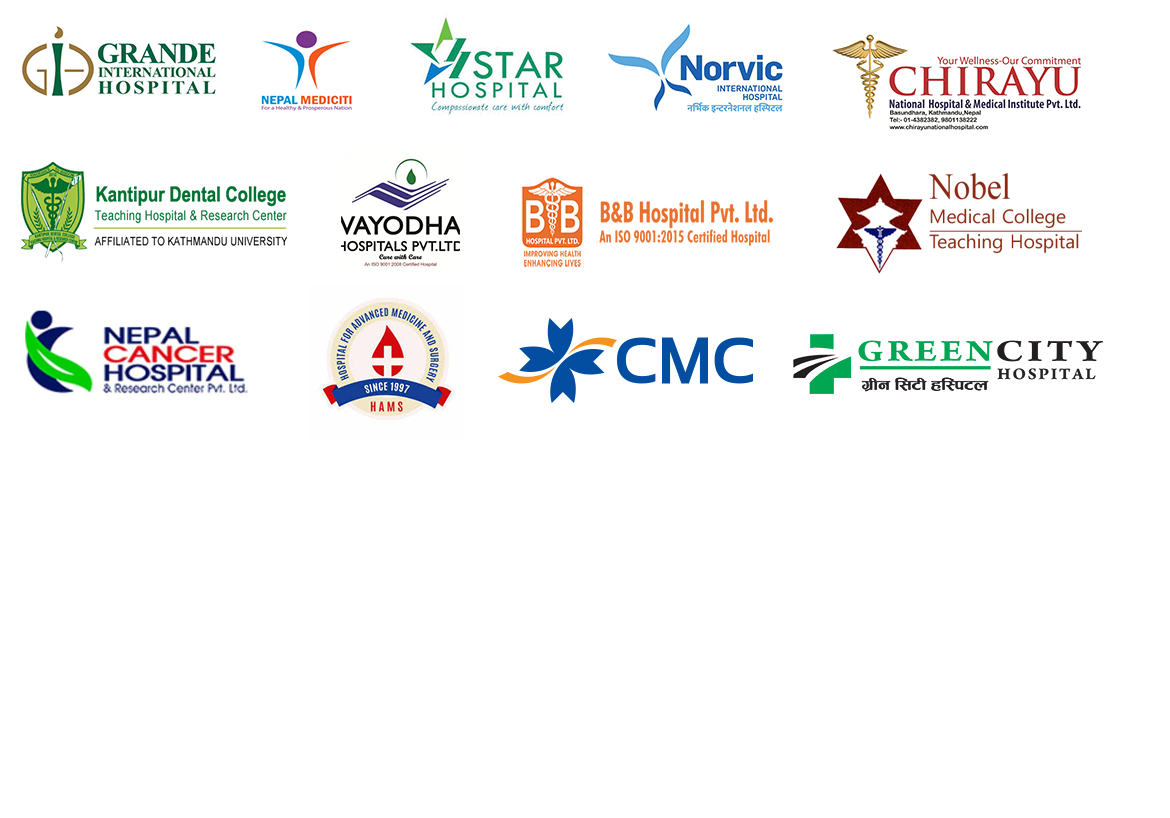
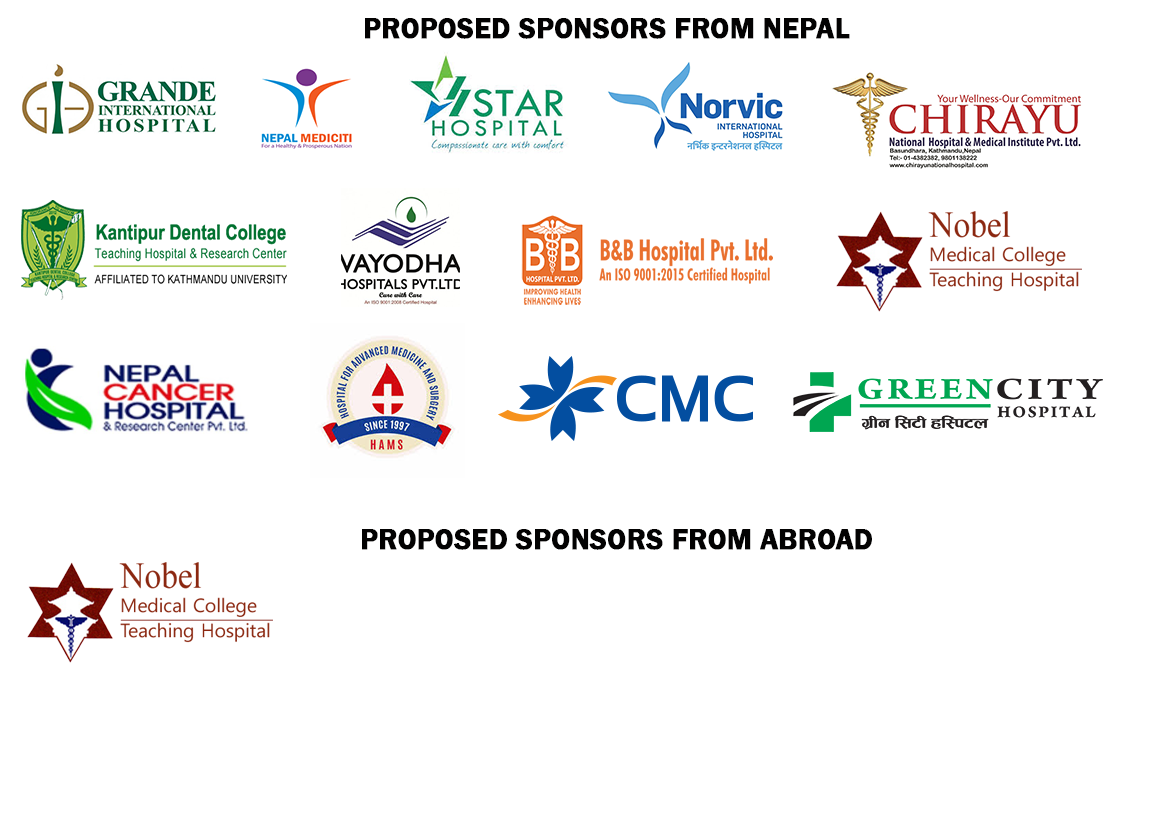
css updated

diff --git a/public/css/custom.css b/public/css/custom.css
@@ -1,3 +1,9 @@
+body, h1, h2, h3, p, ul, li, form {
+    border: 0;
+    margin: 0;
+    padding: 0;
+    font-family: 'Roboto', sans-serif!important;
+}
 .nemto_the_show p {
     text-align: justify;
     font-size: 15px;
@@ -233,15 +239,28 @@ section.event_show-section {
  }
  .card-feature_industries {
      width: 100%;
-     height: 193px;
+     height: 150px;
      padding: 10px;
-     border: 0;
+     border: 1.5px solid #DF1;
      border-radius: 0;
      background: #fff;
      transition: all 300ms linear 0s;
  }
  .industries h2{
-     color: #1d643b;
+     font-weight: 100;
+     padding: 10px 0px;
+     text-align: center;
+ }
+h2.sponsor_h2{
+    text-transform: uppercase;
+     font-weight: 100;
+    color: white;
+     padding: 10px 0px;
+     text-align: center;
+ }
+h2.Registration_h2{
+    text-transform: uppercase;
+     font-weight: 100;
      padding: 10px 0px;
      text-align: center;
  }
@@ -431,4 +450,28 @@ a.venue_date img {
 }
 .nemto_the_show td {
     line-height: normal;
+}
+.industries h3 {
+    font-size: 13px!important;
+    color: #0082c6;
+    font-weight: 600;
+}
+h4.card-feature__title_re {
+    text-align: center;
+    color: white;
+    margin: 5px 0px;
+    text-transform: uppercase;
+    font-size: 14px;
+    font-family: unset;
+    font-weight: bold;
+}
+h3.photo_gallery {
+    text-align: center;
+    font-size: 20px;
+}
+.registration-section{
+    padding: 20px;
+}
+.sponsore_nemto{
+    padding-bottom: 20px;
 }

diff --git a/resources/views/frontend/welcome.blade.php b/resources/views/frontend/welcome.blade.php
@@ -74,10 +74,12 @@
     </section>
 
     <!--================ Feature section start =================-->
-    <section class="feature-section">
+    <section class="registration-section">
+        <div class="container-fluid">
+            <h2 class="Registration_h2">Registration Form</h2>
+        </div>
         <div class="container">
             <div class="row">
-
                 <div class="col-md-4">
                     <div class="card card-feature text-center text-lg-left" style="background: #dee2e6">
                         <h4 class="card-feature__title"><span class="card-feature__icon">
@@ -104,25 +106,20 @@
                 </div>
             </div>
         </div>
-    </section>
-
-
-    <!--================ Feature section start =================-->
-    <section class="feature-section" style="background-image: url('{{url('public/images/background/banner-2.jpg/')}}');">
         <div class="container">
             <div class="row">
                 <div class="col-md-4">
                     <div class="card card-feature text-center text-lg-left" style="background: #06b6a9">
                         <i class="nemto_icon"> <img src="{{url('public/images/icon/embassy.png')}}" alt=""></i>
-                        <h4 class="card-feature__title"><span class="card-feature__icon">
+                        <h4 class="card-feature__title_re"><span class="card-feature__icon">
                             </span>DIPLOMATIC OFFICIALS</h4>
                         <a href="#" class="registration_nemto">Registration</a>
                     </div>
                 </div>
                 <div class="col-md-4">
-                    <div class="card card-feature text-center text-lg-left" style="background: #06b6a9">
+                    <div class="card card-feature text-center text-lg-left" style="background: #bb3131">
                         <i class="nemto_icon"> <img src="{{url('public/images/icon/exhibition.png')}}" alt=""></i>
-                        <h4 class="card-feature__title"><span class="card-feature__icon">
+                        <h4 class="card-feature__title_re"><span class="card-feature__icon">
                             </span>B2B MEETINGS</h4>
                         <a href="#" class="registration_nemto">Registration</a>
                     </div>
@@ -130,7 +127,7 @@
                 <div class="col-md-4">
                     <div class="card card-feature nemto text-center text-lg-left" style="background: #be8404">
                         <i class="nemto_icon"> <img src="{{url('public/images/icon/abstract.png')}}" alt=""></i>
-                        <h4 class="card-feature__title"><span class="card-feature__icon">
+                        <h4 class="card-feature__title_re"><span class="card-feature__icon">
                             </span>ABSTRACT SUBMISSION</h4>
                         <a href="#" class="registration_nemto">Registration</a>
                     </div>
@@ -138,7 +135,6 @@
             </div>
         </div>
     </section>
-    <!--================ Feature section end =================-->
     <!--================About  Area =================-->
     <section class="event_show-section">
         <div class="container-fluid">
@@ -156,7 +152,7 @@
                 </div>
                 <div class="col-md-4">
                     <div class="card feature_events_img text-lg-left">
-                        <h3>Photo Gallery</h3>
+                        <h3 class="photo_gallery">Photo Gallery</h3>
                         <div class="photogallery_border">
                             <div id="carouselExampleSlidesOnly" class="carousel slide" data-ride="carousel">
                                 <div class="carousel-inner">
@@ -199,12 +195,12 @@
     <!--================About Area End =================-->
     <!--================MEDICAL TOURISM ASIA SUMMIT FOCUS OBJECTIVES Area =================-->
     <section class="industries">
-        <div class="container">
+        <div class="container-fluid">
             <h2>MEDICAL TOURISM ASIA SUMMIT FOCUS INDUSTRIES</h2>
             <div class="row">
                 <div class="col">
                     <div class="card card-feature_industries asia_summit">
-                        <h5>HOSPITAL & HEALTHCARE</h5>
+                        <h3>HOSPITAL & HEALTHCARE</h3>
                         <p>
                             Meet top Nepalese hospitals
                             Meet internationally renowed doctors
@@ -214,7 +210,7 @@
                 </div>
                 <div class="col">
                     <div class="card card-feature_industries asia_summit">
-                        <h5>WELLNESS & FITNESS CENTERS</h5>
+                        <h3>WELLNESS & FITNESS CENTERS</h3>
                         <p>
                             Experience the world class Nepalese Traditional therapies
                             Blissful wellness centres of Nepal
@@ -223,7 +219,7 @@
                 </div>
                 <div class="col">
                     <div class="card card-feature_industries asia_summit">
-                        <h5>ACADEMIC INSTITUTIONS</h5>
+                        <h3>ACADEMIC INSTITUTIONS</h3>
                         <p>
                             Network with Nepalese Medical and Paramedical Colleges
                             Share the knowledge with academia specialists in healthcare sector of Nepal
@@ -232,7 +228,7 @@
                 </div>
                 <div class="col">
                     <div class="card card-feature_industries asia_summit">
-                        <h5>MEDICAL TECHNOLOGY</h5>
+                        <h3>MEDICAL TECHNOLOGY</h3>
                         <p>
                             Open to latest technology advancement in medical field
                             Meet for the technology partnership and investment
@@ -241,7 +237,7 @@
                 </div>
                 <div class="col">
                     <div class="card card-feature_industries asia_summit">
-                        <h5>HEALTH INSURANCE</h5>
+                        <h3>HEALTH INSURANCE</h3>
                         <p>
                             Initiate medical insurance and TPA companies for collaboration
                             Sign MOUs for partnership
@@ -253,10 +249,10 @@
     </section>
     <!--================MEDICAL TOURISM ASIA SUMMIT FOCUS OBJECTIVES Area END=================-->
     <!--================Sponsore Area  =================-->
-    <div class="container">
-        <h2 style="text-align: center">Proposed Sponsors Nepal</h2>
-    </div>
     <section class="sponsore_nemto" style="background: #0096ff">
+        <div class="container-fluid">
+            <h2 class="sponsor_h2">Proposed Sponsors</h2>
+        </div>
         <div class="container">
             <div class="row">
                 <div class="col-md-12">
